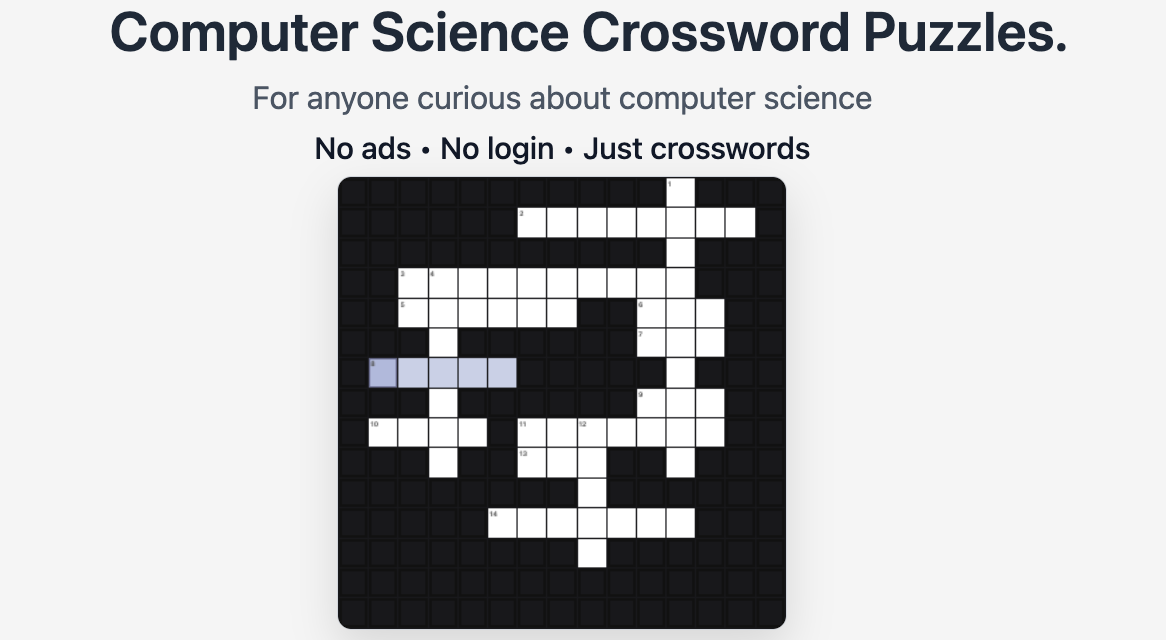
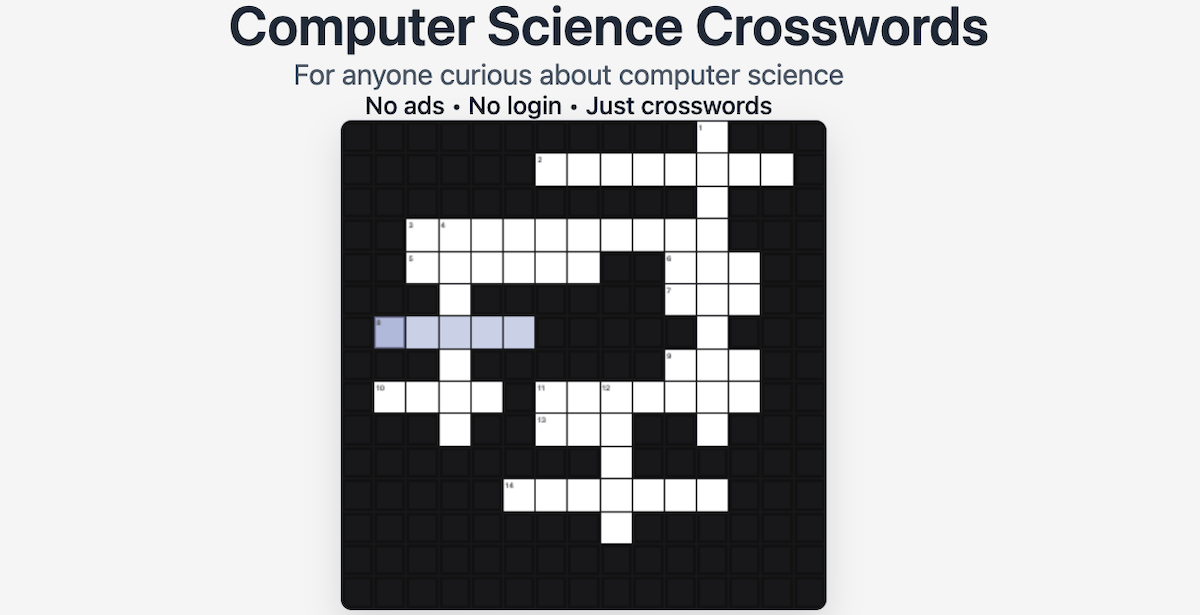
Update base.html

Changed region(s): [[0.0926, 0.0, 0.9262, 1.0]]

diff --git a/crossword/templates/crossword/puzzle.html b/crossword/templates/crossword/puzzle.html
@@ -12,12 +12,34 @@
 {% block meta_description %}
   <meta
     name="description"
-    content="Solve '{{ seo.title|escape }}', a computer science crossword puzzle{% if seo.categories %} about {{ seo.categories|join:', '|lower }}{% endif %}."
+    content="Solve '{{ seo.title|escape }}', a computer science crossword {% if seo.categories %} about {{ seo.categories|join:', '|lower }}{% endif %}."
   >
 {% endblock %}
 
 {% block styles %}
   <link rel="stylesheet" href="{% static 'crossword/css/puzzle.css' %}">
+{% endblock %}
+
+<!-- Open Graph (LinkedIn, Facebook, etc.) -->
+{% block og_title %}
+  Puzzle #{{ seo.puzzle_number }}: {{ seo.title|escape }} | CS Trivia
+{% endblock %}
+
+{% block og_description %}
+  Solve '{{ seo.title|escape }}', a computer science crossword {% if seo.categories %} about {{ seo.categories|join:', '|lower }}{% endif %}.
+{% endblock %}
+
+{% block og_url %}
+  https://cstrivia.com/puzzle/{{ seo.puzzle_number }}/
+{% endblock %}
+
+ <!-- Twitter (also used by some platforms) -->
+{% block twitter_title %}
+  Puzzle #{{ seo.puzzle_number }}: {{ seo.title|escape }} | CS Trivia
+{% endblock %}
+
+{% block twitter_description %}
+  Solve '{{ seo.title|escape }}', a computer science crossword {% if seo.categories %} about {{ seo.categories|join:', '|lower }}{% endif %}.
 {% endblock %}
 
 {% block head_extra %}
@@ -39,19 +61,6 @@
       "url": "https://cstrivia.com/puzzle/{{ seo.puzzle_number }}"
     }
   </script>
-
-  <!-- Open Graph (LinkedIn, Facebook, etc.) -->
-  <meta property="og:title" content="CS Trivia - Computer Science Crossword Puzzles" />
-  <meta property="og:description" content="Solve computer science crossword puzzles on CS Trivia." />
-  <meta property="og:type" content="website" />
-  <meta property="og:url" content="https://cstrivia.com{{ request.path }}" />
-  <meta property="og:image" content="https://cstrivia.com/static/crossword/img/landing-page.png" />
-
-  <!-- Twitter (also used by some platforms) -->
-  <meta name="twitter:card" content="summary_large_image" />
-  <meta name="twitter:title" content="CS Trivia - Computer Science Crossword Puzzles" />
-  <meta name="twitter:description" content="Solve computer science crossword puzzles on CS Trivia." />
-  <meta name="twitter:image" content="https://cstrivia.com/static/crossword/img/landing-page.png" />
 {% endblock %}
 
 {% block body_class %}

diff --git a/crossword/templates/crossword/base.html b/crossword/templates/crossword/base.html
@@ -11,9 +11,23 @@
 
     {% block canonical %}{% endblock %}
 
-    <title>{% block title %}{% endblock %}</title>
+    <title>{% block title %}CS Trivia{% endblock %}</title>
     {% block meta_description %}{% endblock %}
     {% block styles %}{% endblock %}
+
+    <!-- Open Graph (LinkedIn, Facebook, etc.) -->
+    <meta property="og:title" content="{% block og_title %}CS Trivia | Computer Science Crosswords{% endblock %}" />
+    <meta property="og:description" content="{% block og_description %}Computer science crosswords for anyone curious about computer science.{% endblock %}" />
+    <meta property="og:type" content="{% block og_type %}website{% endblock %}" />
+    <meta property="og:url" content="{% block og_url %}https://cstrivia.com{{ request.path }}{% endblock %}" />
+    <meta property="og:image" content="{% block og_image %}https://cstrivia.com/static/crossword/img/landing-page.png{% endblock %}" />
+
+     <!-- Twitter (also used by some platforms) -->
+    <meta name="twitter:card" content="{% block twitter_card %}summary_large_image{% endblock %}" />
+    <meta name="twitter:title" content="{% block twitter_title %}CS Trivia | Computer Science Crosswords{% endblock %}" />
+    <meta name="twitter:description" content="{% block twitter_description %}Computer science crosswords for anyone curious about computer science.{% endblock %}" />
+    <meta name="twitter:image" content="{% block twitter_image %}https://cstrivia.com/static/crossword/img/landing-page.png{% endblock %}" />
+
     {% block head_extra %}{% endblock %}
   </head>
   <body class="{% block body_class %}{% endblock %}">

diff --git a/crossword/templates/crossword/index.html b/crossword/templates/crossword/index.html
@@ -29,19 +29,6 @@
       "description": "Computer science crosswords for anyone curious about computer science."
     }
   </script>
-
-    <!-- Open Graph (LinkedIn, Facebook, etc.) -->
-    <meta property="og:title" content="CS Trivia | Computer Science Crosswords" />
-    <meta property="og:description" content="Computer science crosswords for anyone curious about computer science." />
-    <meta property="og:type" content="website" />
-    <meta property="og:url" content="https://cstrivia.com/" />
-    <meta property="og:image" content="https://cstrivia.com/static/crossword/img/landing-page.png" />
-
-    <!-- Twitter (also used by some platforms) -->
-    <meta name="twitter:card" content="summary_large_image" />
-    <meta name="twitter:title" content="CS Trivia | Computer Science Crosswords" />
-    <meta name="twitter:description" content="Computer science crosswords for anyone curious about computer science." />
-    <meta name="twitter:image" content="https://cstrivia.com/static/crossword/img/landing-page.png" />
 {% endblock %}
 
 {% block header %}{% endblock %}

diff --git a/README.md b/README.md
@@ -1,7 +1,7 @@
 # CS Trivia
-Public repo for https://cstrivia.com
+Public repository for https://cstrivia.com
 
-A site centered around computer science crossword puzzles.
+A site for computer science crosswords.
 
 <img src="crossword/static/crossword/img/readme.png" width="860" />
 
@@ -102,19 +102,29 @@ DATABASE_URL=postgres://USER:PASSWORD@localhost:5432/cstrivia
 python manage.py migrate
 ```
 
-Load sample puzzle data:
+Load puzzle data into postgres:
 
 ```bash
-python manage.py load_puzzle crossword/data/open_source_basics.json
+python manage.py load_puzzle crossword/fixtures/open_source_basics.json
 ```
 
 ---
 
-## Setup Frontend
+## Run Server
+
+```bash
+python manage.py runserver
+```
+
+The server should run without errors.
+
+---
+
+## Run Frontend
 
 This project uses **vanilla TypeScript** compiled with **esbuild** for bundling and minification (no frontend framework).
 
-Build the frontend assets before running the development server:
+Build frontend assets:
 
 ```bash
 npm install
@@ -127,23 +137,11 @@ For development (auto-rebuild on changes):
 npm run watch
 ```
 
-To run TypeScript type checking:
-
-```bash
-npm run typecheck
-```
----
-
-## Run the Server
-
-```bash
-python manage.py runserver
-```
-
 Visit: [http://localhost:8000/](http://localhost:8000/)
-
 > Make sure you're using **http**, not https.
 > Some browsers (like Chrome) may auto-redirect to https, which will cause errors.
+
+---
 
 ## Feedback
 
